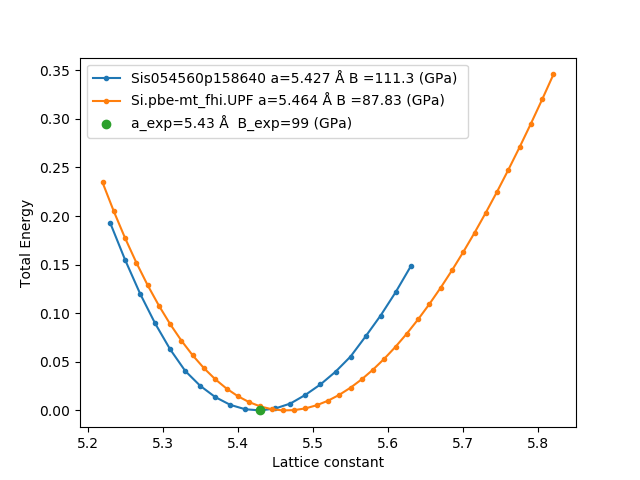
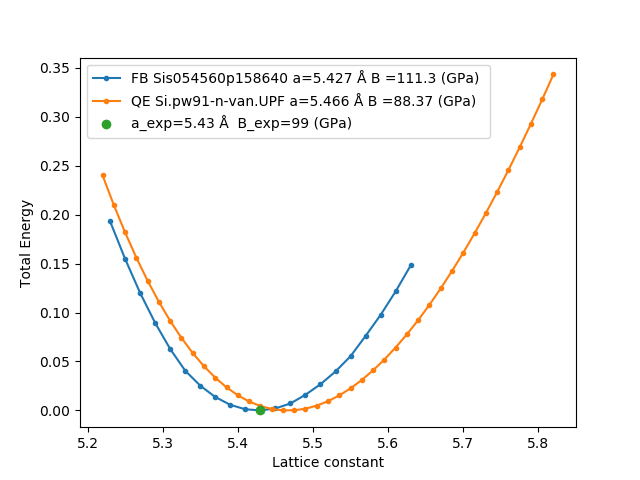
g

diff --git a/Si/Si_01.more/index.html b/Si/Si_01.more/index.html
@@ -1,6 +1,8 @@
 <!DOCTYPE html>
 <html>
 <body>
+Calculation of the total energy as a function of lattice constant in the dia structure. In Fireball (FB) calculation <a href=014.pp> 014.pp</a> pseudopotential was used. In Quamtum Espresso (QE) the  <a href=http://www.quantum-espresso.org/pseudopotentials/ps-library>Si.pw91-n-van.UPF </a> pseudopotential was used.
+
 <img src=bulk_Si.png>
 <br/>
 <a href=dia_Sis054560p158640.bas> Coordinates of atoms</a>
